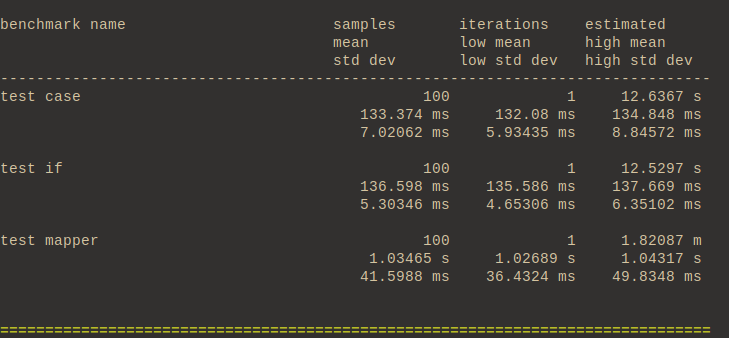
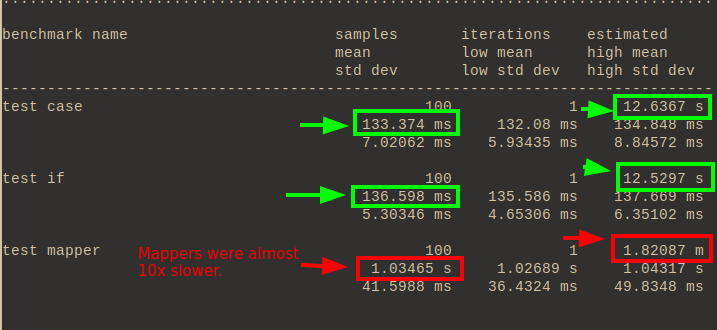
Update cpp if_vs_case_vs_map

diff --git a/posts/cpp/if_vs_case_vs_map/index.html b/posts/cpp/if_vs_case_vs_map/index.html
@@ -275,21 +275,20 @@
 <p class="date">March 06, 2023</p>
 </header>
 <h2 id="the-introduction">The introduction</h2>
-<p>There’re a lot of misconceptions about how <code>if</code> and
-<code>case</code> statements are compiled, and how they perform. Often
-as those statements grow large (20+ lines) code-reviewers will say “can
-you refactor these if/else or case chains into a mapper so that the code
-is more clean?”</p>
+<p>There’re a many misconceptions about how <code>if</code> and
+<code>case</code> statements are compiled, and how they perform. As
+those statements grow large (20+ lines) code-reviewers commonly recomend
+refactoring the conditional chains into a mapper to improve code
+clarity.</p>
 <p>So the idea here is to check whether or not the code is cleaner, and
-how much we pay in performance in order to get it.</p>
+how much we pay in performance in order to have “cleaner” code.</p>
 <h2 id="the-example">The example</h2>
 <p>Let’s start with a simple example. Say you’re developing a game of
-chess and you need to return a char representation of the chess piece at
-hand. Easy.</p>
-<p>Your enum of pieces is something like this:</p>
+chess and you need to return a <code>char</code> representation of the
+chess piece at hand. Easy:</p>
 <div class="sourceCode" id="cb1"><pre
 class="sourceCode cpp"><code class="sourceCode cpp"><span id="cb1-1"><a href="#cb1-1" aria-hidden="true" tabindex="-1"></a><span class="kw">enum</span> Pieces <span class="op">{</span>PAWN<span class="op">,</span> KNIGHT<span class="op">,</span> BISHOP<span class="op">,</span> ROOK<span class="op">,</span> QUEEN<span class="op">,</span> KING<span class="op">};</span></span></code></pre></div>
-<p>Let’s start with an approach using if statements:</p>
+<p>Our first function will use <code>if</code> statements:</p>
 <div class="sourceCode" id="cb2"><pre
 class="sourceCode cpp"><code class="sourceCode cpp"><span id="cb2-1"><a href="#cb2-1" aria-hidden="true" tabindex="-1"></a><span class="dt">char</span> if_func<span class="op">(</span>PieceType piece<span class="op">)</span> <span class="op">{</span></span>
 <span id="cb2-2"><a href="#cb2-2" aria-hidden="true" tabindex="-1"></a>  <span class="cf">if</span> <span class="op">(</span>piece <span class="op">==</span> PAWN<span class="op">)</span> <span class="op">{</span> <span class="cf">return</span> <span class="ch">&#39;p&#39;</span><span class="op">;</span> <span class="op">}</span></span>
@@ -312,7 +311,7 @@ class="sourceCode cpp"><code class="sourceCode cpp"><span id="cb3-1"><a href="#c
 <span id="cb3-9"><a href="#cb3-9" aria-hidden="true" tabindex="-1"></a>  <span class="op">}</span></span>
 <span id="cb3-10"><a href="#cb3-10" aria-hidden="true" tabindex="-1"></a><span class="op">};</span></span></code></pre></div>
 <p>Before going any further, let’s compare the assembly code generated
-from these functions.</p>
+from these two functions.</p>
 <h2 id="assembly-code">Assembly code</h2>
 <p>Firstly, let’s start with the assembly code for the <code>if</code>
 statement version:</p>
@@ -321,18 +320,19 @@ statement version:</p>
 <figcaption aria-hidden="true">if_assembly</figcaption>
 </figure>
 <p>Very straightforward. Store the input value in a register, compare
-with the integers corresponding to the enum (0, 1, 2, 3, 4, 5) and spits
-out the equivalent char (as an int).</p>
+with the integers corresponding to the enum (0, 1, 2, 3, 4, 5) in a
+sequence and spit out the equivalent <code>char</code> (as an int).</p>
 <p>How does this compare to the <code>case</code> statement?</p>
 <figure>
 <img src="case_assembly.png" alt="case_assembly" />
 <figcaption aria-hidden="true">case_assembly</figcaption>
 </figure>
-<p>The <code>case</code> statement seems more complicated as it needs to
-use a lookup table, but this is expected.</p>
+<p>The <code>case</code> statement seems more complicated for the
+programmer unfamiliar with Assembly language. However, the code is just
+a producing a lookup table.</p>
 <h2 id="benchmarking">Benchmarking</h2>
 <p>Before proceeding to the “clean” code approach, let’s run some
-benchmarking to see how the if statement compares to the switch one.</p>
+benchmarking to see how the if statement compares to the case one.</p>
 <p>Our test bench will look like this:</p>
 <div class="sourceCode" id="cb4"><pre
 class="sourceCode cpp"><code class="sourceCode cpp"><span id="cb4-1"><a href="#cb4-1" aria-hidden="true" tabindex="-1"></a><span class="pp">#include </span><span class="im">&lt;catch2/catch.hpp&gt;</span></span>
@@ -358,27 +358,29 @@ class="sourceCode cpp"><code class="sourceCode cpp"><span id="cb4-1"><a href="#c
 <span id="cb4-21"><a href="#cb4-21" aria-hidden="true" tabindex="-1"></a>  BENCHMARK<span class="op">(</span><span class="st">&quot;test case&quot;</span><span class="op">)</span> <span class="op">{</span> <span class="cf">return</span> test_case<span class="op">();</span> <span class="op">};</span></span>
 <span id="cb4-22"><a href="#cb4-22" aria-hidden="true" tabindex="-1"></a>  BENCHMARK<span class="op">(</span><span class="st">&quot;test if&quot;</span><span class="op">)</span> <span class="op">{</span> <span class="cf">return</span> test_if<span class="op">();</span> <span class="op">};</span></span>
 <span id="cb4-23"><a href="#cb4-23" aria-hidden="true" tabindex="-1"></a><span class="op">}</span></span></code></pre></div>
-<p>We will run through the vector one million times, and see how this
-compares.</p>
+<p>We will run through the vector one million times for each sample, and
+then we’ll analyse how they compare.</p>
 <figure>
 <img src="case_vs_if.png" alt="case_vs_if" />
 <figcaption aria-hidden="true">case_vs_if</figcaption>
 </figure>
 <p>This is an unfortunate scenario for our <code>case</code> statement.
 Lookup tables get better as the number of different <code>case</code>s
-raises. But in this case, we only have a few cases and their occurrence
-is evenly distributed due to the way the benchmark code was set. That’s
-why our <code>if</code> statement with many <code>cmp</code>s and
-<code>jmp</code>s in assembly managed to perform better.</p>
-<p>In other words, the worst case scenario for our if statement (when it
-receives a ‘king’ and it needs to jump all the way down the assembly
-code) only happens 1 out of 6 times. Whereas the <code>case</code>
-function needs to always use the lookup table no matter what.</p>
+raises. But in this function we only have a few <code>case</code>s and
+their occurrence is evenly distributed due to the way the benchmark code
+was set. That’s why our <code>if</code> statement with many
+<code>cmp</code>s and <code>jmp</code>s somehow managed to perform
+better.</p>
+<p>In other words, the worst case scenario for our <code>if</code>
+statement (when it receives a ‘king’ and it needs to jump all the way
+down the assembly instruction chain) only happens 1 out of 6 times.
+Whereas the <code>case</code> function needs to always use the lookup
+table no matter what.</p>
 <p>I used this example on purpose, because generally speaking developers
 say that <code>case</code> statements are faster than <code>if</code>
 statements. While this is true for many scenarios, this isn’t
 <strong>always</strong> true.</p>
-<p>If we had cherry picked our vector of pieces to only contain kings,
+<p>If we had cherry picked our vector of pieces to only contain Kings,
 the result would be different. Consider substituting this line:</p>
 <div class="sourceCode" id="cb5"><pre
 class="sourceCode cpp"><code class="sourceCode cpp"><span id="cb5-1"><a href="#cb5-1" aria-hidden="true" tabindex="-1"></a><span class="co">// std::vector&lt;PieceType&gt; pieces = {PAWN, KNIGHT, BISHOP, ROOK, QUEEN, KING};</span></span>
@@ -411,14 +413,13 @@ class="sourceCode cpp"><code class="sourceCode cpp"><span id="cb6-1"><a href="#c
 </figure>
 <p>With 6 different variables to switch from, our <code>if</code>
 statement is comparable to a <code>case</code> statement. For anything
-less than that, it will usually be faster, and for anything more than
-that, it will usually be slower.</p>
+less than that, <code>if</code> statements will usually be faster, and
+for anything more than that, they will usually be slower.</p>
 <p>I’m being really picky here, in real-life situations this difference
-might not mean anything. But the reason why I’m comparing both will
-become clear next.</p>
+probably doesn’t matter, but now you know.</p>
 <h2 id="the-clean-code-alternative">The clean code alternative</h2>
-<p>I haven’t worked with C++ in a while, so let’s have a brief pause
-here to talk about something that happens in my daily Python</p>
+<p>Let’s have a brief pause on benchmarking here to talk about something
+that happens in my daily at my job.</p>
 <p>A code reviewer will look at our <code>if</code> or <code>case</code>
 function and will block the Pull Request saying:</p>
 <blockquote>
@@ -439,10 +440,22 @@ class="sourceCode cpp"><code class="sourceCode cpp"><span id="cb7-1"><a href="#c
 <span id="cb7-10"><a href="#cb7-10" aria-hidden="true" tabindex="-1"></a><span class="dt">char</span> mapper_func<span class="op">(</span>PieceType piece<span class="op">)</span> <span class="op">{</span></span>
 <span id="cb7-11"><a href="#cb7-11" aria-hidden="true" tabindex="-1"></a>  <span class="cf">return</span> mapper<span class="op">[</span>piece<span class="op">];</span></span>
 <span id="cb7-12"><a href="#cb7-12" aria-hidden="true" tabindex="-1"></a><span class="op">}</span></span></code></pre></div>
-<p>So much cleaner, right?! Well, arguably. But the central question is:
-why use a full on hash table just for looking up 6 different values?
-Isn’t this too overkill? Does the clean code excuse really matters here?
-Is the alternative if or case statement even “dirty”?</p>
+<p>So much cleaner, right?! The reviewer will be happy that you reduced
+a monstruous chain of <code>if</code> (or <code>case</code>) statements
+into a single, clean, 1 line function.</p>
+<p>More over, a common argument is that “it’s easier to test, and
+therefore to obtain high coverage”. And indeed, it’s easy to obtain
+coverage if all you’re doing is making sure that the return line is hit,
+but if you want to have real coverage that branches out to all paths,
+your test will actually look identical for either case.</p>
+<p>In reality I haven’t seen any substantial evidence to actually
+convince me that this is indeed cleaner or more useful - and it will
+most likely come down to personal preference, which is unfortunate for
+the reviewer and for the person who created the PR.</p>
+<p>But the central question still is: why use a full on hash table just
+for looking up 6 different values? Isn’t this too overkill? Does the
+clean code excuse really matters here? Is the alternative if or case
+statement even “dirty”?</p>
 <p>Let’s see how this performs. We’ll add another benchmarking using
 this new mapper function and rerun the code.</p>
 <div class="sourceCode" id="cb8"><pre
@@ -463,7 +476,7 @@ class="sourceCode cpp"><code class="sourceCode cpp"><span id="cb8-1"><a href="#c
 </figure>
 <p>This is too slow! We are running almost 10x slower now on our “clean”
 code approach. This is obvious, we don’t need a hash table here, we’re
-just switching returns based on a enum of 6 different types.</p>
+just returning based on a enum of 6 different types.</p>
 <h2 id="conclusion">Conclusion</h2>
 <ul>
 <li>Beware of “clean code” conventions without reason. If some of they
@@ -473,5 +486,88 @@ code.</li>
 <code>switch</code>/<code>case</code> statements, otherwise
 <code>if</code> is fine.</li>
 </ul>
+<h2 id="benchmark-code">Benchmark code</h2>
+<div class="sourceCode" id="cb9"><pre
+class="sourceCode cpp"><code class="sourceCode cpp"><span id="cb9-1"><a href="#cb9-1" aria-hidden="true" tabindex="-1"></a><span class="pp">#define CATCH_CONFIG_MAIN</span></span>
+<span id="cb9-2"><a href="#cb9-2" aria-hidden="true" tabindex="-1"></a><span class="pp">#define CATCH_CONFIG_ENABLE_BENCHMARKING</span></span>
+<span id="cb9-3"><a href="#cb9-3" aria-hidden="true" tabindex="-1"></a><span class="pp">#include </span><span class="im">&lt;catch2/catch.hpp&gt;</span></span>
+<span id="cb9-4"><a href="#cb9-4" aria-hidden="true" tabindex="-1"></a><span class="pp">#include </span><span class="im">&lt;vector&gt;</span></span>
+<span id="cb9-5"><a href="#cb9-5" aria-hidden="true" tabindex="-1"></a><span class="pp">#include </span><span class="im">&lt;unordered_map&gt;</span></span>
+<span id="cb9-6"><a href="#cb9-6" aria-hidden="true" tabindex="-1"></a></span>
+<span id="cb9-7"><a href="#cb9-7" aria-hidden="true" tabindex="-1"></a><span class="kw">enum</span> PieceType <span class="op">{</span>PAWN<span class="op">,</span> KNIGHT<span class="op">,</span> BISHOP<span class="op">,</span> ROOK<span class="op">,</span> QUEEN<span class="op">,</span> KING<span class="op">};</span></span>
+<span id="cb9-8"><a href="#cb9-8" aria-hidden="true" tabindex="-1"></a></span>
+<span id="cb9-9"><a href="#cb9-9" aria-hidden="true" tabindex="-1"></a><span class="bu">std::</span>unordered_map<span class="op">&lt;</span>PieceType<span class="op">,</span> <span class="dt">char</span><span class="op">&gt;</span> mapper <span class="op">=</span> <span class="op">{</span></span>
+<span id="cb9-10"><a href="#cb9-10" aria-hidden="true" tabindex="-1"></a>  <span class="op">{</span>PAWN<span class="op">,</span> <span class="ch">&#39;p&#39;</span><span class="op">},</span></span>
+<span id="cb9-11"><a href="#cb9-11" aria-hidden="true" tabindex="-1"></a>  <span class="op">{</span>KNIGHT<span class="op">,</span> <span class="ch">&#39;k&#39;</span><span class="op">},</span></span>
+<span id="cb9-12"><a href="#cb9-12" aria-hidden="true" tabindex="-1"></a>  <span class="op">{</span>BISHOP<span class="op">,</span> <span class="ch">&#39;b&#39;</span><span class="op">},</span></span>
+<span id="cb9-13"><a href="#cb9-13" aria-hidden="true" tabindex="-1"></a>  <span class="op">{</span>ROOK<span class="op">,</span> <span class="ch">&#39;r&#39;</span><span class="op">},</span></span>
+<span id="cb9-14"><a href="#cb9-14" aria-hidden="true" tabindex="-1"></a>  <span class="op">{</span>QUEEN<span class="op">,</span> <span class="ch">&#39;q&#39;</span><span class="op">},</span></span>
+<span id="cb9-15"><a href="#cb9-15" aria-hidden="true" tabindex="-1"></a>  <span class="op">{</span>KING<span class="op">,</span> <span class="ch">&#39;k&#39;</span><span class="op">},</span></span>
+<span id="cb9-16"><a href="#cb9-16" aria-hidden="true" tabindex="-1"></a><span class="op">};</span></span>
+<span id="cb9-17"><a href="#cb9-17" aria-hidden="true" tabindex="-1"></a></span>
+<span id="cb9-18"><a href="#cb9-18" aria-hidden="true" tabindex="-1"></a><span class="dt">char</span> mapper_func<span class="op">(</span>PieceType piece<span class="op">)</span> <span class="op">{</span></span>
+<span id="cb9-19"><a href="#cb9-19" aria-hidden="true" tabindex="-1"></a>  <span class="cf">return</span> mapper<span class="op">[</span>piece<span class="op">];</span></span>
+<span id="cb9-20"><a href="#cb9-20" aria-hidden="true" tabindex="-1"></a><span class="op">}</span></span>
+<span id="cb9-21"><a href="#cb9-21" aria-hidden="true" tabindex="-1"></a></span>
+<span id="cb9-22"><a href="#cb9-22" aria-hidden="true" tabindex="-1"></a><span class="dt">char</span> if_func<span class="op">(</span>PieceType piece<span class="op">)</span> <span class="op">{</span></span>
+<span id="cb9-23"><a href="#cb9-23" aria-hidden="true" tabindex="-1"></a>  <span class="cf">if</span> <span class="op">(</span>piece <span class="op">==</span> PAWN<span class="op">)</span> <span class="op">{</span> <span class="cf">return</span> <span class="ch">&#39;p&#39;</span><span class="op">;</span> <span class="op">}</span></span>
+<span id="cb9-24"><a href="#cb9-24" aria-hidden="true" tabindex="-1"></a>  <span class="cf">if</span> <span class="op">(</span>piece <span class="op">==</span> KNIGHT<span class="op">)</span> <span class="op">{</span> <span class="cf">return</span> <span class="ch">&#39;k&#39;</span><span class="op">;</span> <span class="op">}</span></span>
+<span id="cb9-25"><a href="#cb9-25" aria-hidden="true" tabindex="-1"></a>  <span class="cf">if</span> <span class="op">(</span>piece <span class="op">==</span> BISHOP<span class="op">)</span> <span class="op">{</span> <span class="cf">return</span> <span class="ch">&#39;b&#39;</span><span class="op">;</span> <span class="op">}</span></span>
+<span id="cb9-26"><a href="#cb9-26" aria-hidden="true" tabindex="-1"></a>  <span class="cf">if</span> <span class="op">(</span>piece <span class="op">==</span> ROOK<span class="op">)</span> <span class="op">{</span> <span class="cf">return</span> <span class="ch">&#39;r&#39;</span><span class="op">;</span> <span class="op">}</span></span>
+<span id="cb9-27"><a href="#cb9-27" aria-hidden="true" tabindex="-1"></a>  <span class="cf">if</span> <span class="op">(</span>piece <span class="op">==</span> QUEEN<span class="op">)</span> <span class="op">{</span> <span class="cf">return</span> <span class="ch">&#39;q&#39;</span><span class="op">;</span> <span class="op">}</span></span>
+<span id="cb9-28"><a href="#cb9-28" aria-hidden="true" tabindex="-1"></a>  <span class="cf">return</span> <span class="ch">&#39;k&#39;</span><span class="op">;</span></span>
+<span id="cb9-29"><a href="#cb9-29" aria-hidden="true" tabindex="-1"></a><span class="op">};</span></span>
+<span id="cb9-30"><a href="#cb9-30" aria-hidden="true" tabindex="-1"></a></span>
+<span id="cb9-31"><a href="#cb9-31" aria-hidden="true" tabindex="-1"></a><span class="dt">char</span> case_func<span class="op">(</span>PieceType piece<span class="op">)</span> <span class="op">{</span></span>
+<span id="cb9-32"><a href="#cb9-32" aria-hidden="true" tabindex="-1"></a>  <span class="cf">switch</span><span class="op">(</span>piece<span class="op">)</span> <span class="op">{</span></span>
+<span id="cb9-33"><a href="#cb9-33" aria-hidden="true" tabindex="-1"></a>    <span class="cf">case</span> PAWN<span class="op">:</span> <span class="cf">return</span> <span class="ch">&#39;p&#39;</span><span class="op">;</span></span>
+<span id="cb9-34"><a href="#cb9-34" aria-hidden="true" tabindex="-1"></a>    <span class="cf">case</span> KNIGHT<span class="op">:</span> <span class="cf">return</span> <span class="ch">&#39;k&#39;</span><span class="op">;</span></span>
+<span id="cb9-35"><a href="#cb9-35" aria-hidden="true" tabindex="-1"></a>    <span class="cf">case</span> BISHOP<span class="op">:</span> <span class="cf">return</span> <span class="ch">&#39;b&#39;</span><span class="op">;</span></span>
+<span id="cb9-36"><a href="#cb9-36" aria-hidden="true" tabindex="-1"></a>    <span class="cf">case</span> ROOK<span class="op">:</span> <span class="cf">return</span> <span class="ch">&#39;r&#39;</span><span class="op">;</span></span>
+<span id="cb9-37"><a href="#cb9-37" aria-hidden="true" tabindex="-1"></a>    <span class="cf">case</span> QUEEN<span class="op">:</span> <span class="cf">return</span> <span class="ch">&#39;q&#39;</span><span class="op">;</span></span>
+<span id="cb9-38"><a href="#cb9-38" aria-hidden="true" tabindex="-1"></a>    <span class="cf">default</span><span class="op">:</span> <span class="cf">return</span> <span class="ch">&#39;k&#39;</span><span class="op">;</span></span>
+<span id="cb9-39"><a href="#cb9-39" aria-hidden="true" tabindex="-1"></a>  <span class="op">}</span></span>
+<span id="cb9-40"><a href="#cb9-40" aria-hidden="true" tabindex="-1"></a><span class="op">};</span></span>
+<span id="cb9-41"><a href="#cb9-41" aria-hidden="true" tabindex="-1"></a></span>
+<span id="cb9-42"><a href="#cb9-42" aria-hidden="true" tabindex="-1"></a><span class="pp">#include </span><span class="im">&lt;catch2/catch.hpp&gt;</span></span>
+<span id="cb9-43"><a href="#cb9-43" aria-hidden="true" tabindex="-1"></a><span class="co">/* std::vector&lt;PieceType&gt; pieces = {PAWN, KNIGHT, BISHOP, ROOK, QUEEN, KING}; */</span></span>
+<span id="cb9-44"><a href="#cb9-44" aria-hidden="true" tabindex="-1"></a><span class="bu">std::</span>vector<span class="op">&lt;</span>PieceType<span class="op">&gt;</span> pieces <span class="op">=</span> <span class="op">{</span></span>
+<span id="cb9-45"><a href="#cb9-45" aria-hidden="true" tabindex="-1"></a>  PAWN<span class="op">,</span></span>
+<span id="cb9-46"><a href="#cb9-46" aria-hidden="true" tabindex="-1"></a>  KNIGHT<span class="op">,</span> KNIGHT<span class="op">,</span></span>
+<span id="cb9-47"><a href="#cb9-47" aria-hidden="true" tabindex="-1"></a>  BISHOP<span class="op">,</span> BISHOP<span class="op">,</span> BISHOP<span class="op">,</span> BISHOP<span class="op">,</span></span>
+<span id="cb9-48"><a href="#cb9-48" aria-hidden="true" tabindex="-1"></a>  ROOK<span class="op">,</span> ROOK<span class="op">,</span> ROOK<span class="op">,</span> ROOK<span class="op">,</span></span>
+<span id="cb9-49"><a href="#cb9-49" aria-hidden="true" tabindex="-1"></a>  QUEEN<span class="op">,</span> QUEEN<span class="op">,</span></span>
+<span id="cb9-50"><a href="#cb9-50" aria-hidden="true" tabindex="-1"></a>  KING<span class="op">,</span></span>
+<span id="cb9-51"><a href="#cb9-51" aria-hidden="true" tabindex="-1"></a><span class="op">};</span></span>
+<span id="cb9-52"><a href="#cb9-52" aria-hidden="true" tabindex="-1"></a></span>
+<span id="cb9-53"><a href="#cb9-53" aria-hidden="true" tabindex="-1"></a><span class="dt">void</span> test_if<span class="op">()</span> <span class="op">{</span></span>
+<span id="cb9-54"><a href="#cb9-54" aria-hidden="true" tabindex="-1"></a>  <span class="cf">for</span> <span class="op">(</span><span class="dt">int</span> i <span class="op">=</span> <span class="dv">0</span><span class="op">;</span> i <span class="op">&lt;</span> <span class="dv">1000000</span><span class="op">;</span> i<span class="op">++)</span> <span class="op">{</span></span>
+<span id="cb9-55"><a href="#cb9-55" aria-hidden="true" tabindex="-1"></a>    <span class="cf">for</span> <span class="op">(</span><span class="at">const</span> <span class="kw">auto</span> <span class="op">&amp;</span>piece <span class="op">:</span> pieces<span class="op">)</span> <span class="op">{</span></span>
+<span id="cb9-56"><a href="#cb9-56" aria-hidden="true" tabindex="-1"></a>      if_func<span class="op">(</span>piece<span class="op">);</span></span>
+<span id="cb9-57"><a href="#cb9-57" aria-hidden="true" tabindex="-1"></a>    <span class="op">}</span></span>
+<span id="cb9-58"><a href="#cb9-58" aria-hidden="true" tabindex="-1"></a>  <span class="op">}</span></span>
+<span id="cb9-59"><a href="#cb9-59" aria-hidden="true" tabindex="-1"></a><span class="op">};</span></span>
+<span id="cb9-60"><a href="#cb9-60" aria-hidden="true" tabindex="-1"></a></span>
+<span id="cb9-61"><a href="#cb9-61" aria-hidden="true" tabindex="-1"></a><span class="dt">void</span> test_case<span class="op">()</span> <span class="op">{</span></span>
+<span id="cb9-62"><a href="#cb9-62" aria-hidden="true" tabindex="-1"></a>  <span class="cf">for</span> <span class="op">(</span><span class="dt">int</span> i <span class="op">=</span> <span class="dv">0</span><span class="op">;</span> i <span class="op">&lt;</span> <span class="dv">1000000</span><span class="op">;</span> i<span class="op">++)</span> <span class="op">{</span></span>
+<span id="cb9-63"><a href="#cb9-63" aria-hidden="true" tabindex="-1"></a>    <span class="cf">for</span> <span class="op">(</span><span class="at">const</span> <span class="kw">auto</span> <span class="op">&amp;</span>piece <span class="op">:</span> pieces<span class="op">)</span> <span class="op">{</span></span>
+<span id="cb9-64"><a href="#cb9-64" aria-hidden="true" tabindex="-1"></a>      case_func<span class="op">(</span>piece<span class="op">);</span></span>
+<span id="cb9-65"><a href="#cb9-65" aria-hidden="true" tabindex="-1"></a>    <span class="op">}</span></span>
+<span id="cb9-66"><a href="#cb9-66" aria-hidden="true" tabindex="-1"></a>  <span class="op">}</span></span>
+<span id="cb9-67"><a href="#cb9-67" aria-hidden="true" tabindex="-1"></a><span class="op">};</span></span>
+<span id="cb9-68"><a href="#cb9-68" aria-hidden="true" tabindex="-1"></a></span>
+<span id="cb9-69"><a href="#cb9-69" aria-hidden="true" tabindex="-1"></a><span class="dt">void</span> test_mapper<span class="op">()</span> <span class="op">{</span></span>
+<span id="cb9-70"><a href="#cb9-70" aria-hidden="true" tabindex="-1"></a>  <span class="cf">for</span> <span class="op">(</span><span class="dt">int</span> i <span class="op">=</span> <span class="dv">0</span><span class="op">;</span> i <span class="op">&lt;</span> <span class="dv">1000000</span><span class="op">;</span> i<span class="op">++)</span> <span class="op">{</span></span>
+<span id="cb9-71"><a href="#cb9-71" aria-hidden="true" tabindex="-1"></a>    <span class="cf">for</span> <span class="op">(</span><span class="at">const</span> <span class="kw">auto</span> <span class="op">&amp;</span>piece <span class="op">:</span> pieces<span class="op">)</span> <span class="op">{</span></span>
+<span id="cb9-72"><a href="#cb9-72" aria-hidden="true" tabindex="-1"></a>      mapper_func<span class="op">(</span>piece<span class="op">);</span></span>
+<span id="cb9-73"><a href="#cb9-73" aria-hidden="true" tabindex="-1"></a>    <span class="op">}</span></span>
+<span id="cb9-74"><a href="#cb9-74" aria-hidden="true" tabindex="-1"></a>  <span class="op">}</span></span>
+<span id="cb9-75"><a href="#cb9-75" aria-hidden="true" tabindex="-1"></a><span class="op">};</span></span>
+<span id="cb9-76"><a href="#cb9-76" aria-hidden="true" tabindex="-1"></a></span>
+<span id="cb9-77"><a href="#cb9-77" aria-hidden="true" tabindex="-1"></a>TEST_CASE<span class="op">(</span><span class="st">&quot;IF vs CASE vs MAP&quot;</span><span class="op">)</span> <span class="op">{</span></span>
+<span id="cb9-78"><a href="#cb9-78" aria-hidden="true" tabindex="-1"></a>  BENCHMARK<span class="op">(</span><span class="st">&quot;test case&quot;</span><span class="op">)</span> <span class="op">{</span> <span class="cf">return</span> test_case<span class="op">();</span> <span class="op">};</span></span>
+<span id="cb9-79"><a href="#cb9-79" aria-hidden="true" tabindex="-1"></a>  BENCHMARK<span class="op">(</span><span class="st">&quot;test if&quot;</span><span class="op">)</span> <span class="op">{</span> <span class="cf">return</span> test_if<span class="op">();</span> <span class="op">};</span></span>
+<span id="cb9-80"><a href="#cb9-80" aria-hidden="true" tabindex="-1"></a>  BENCHMARK<span class="op">(</span><span class="st">&quot;test mapper&quot;</span><span class="op">)</span> <span class="op">{</span> <span class="cf">return</span> test_mapper<span class="op">();</span> <span class="op">};</span></span>
+<span id="cb9-81"><a href="#cb9-81" aria-hidden="true" tabindex="-1"></a><span class="op">}</span></span></code></pre></div>
 </body>
 </html>
